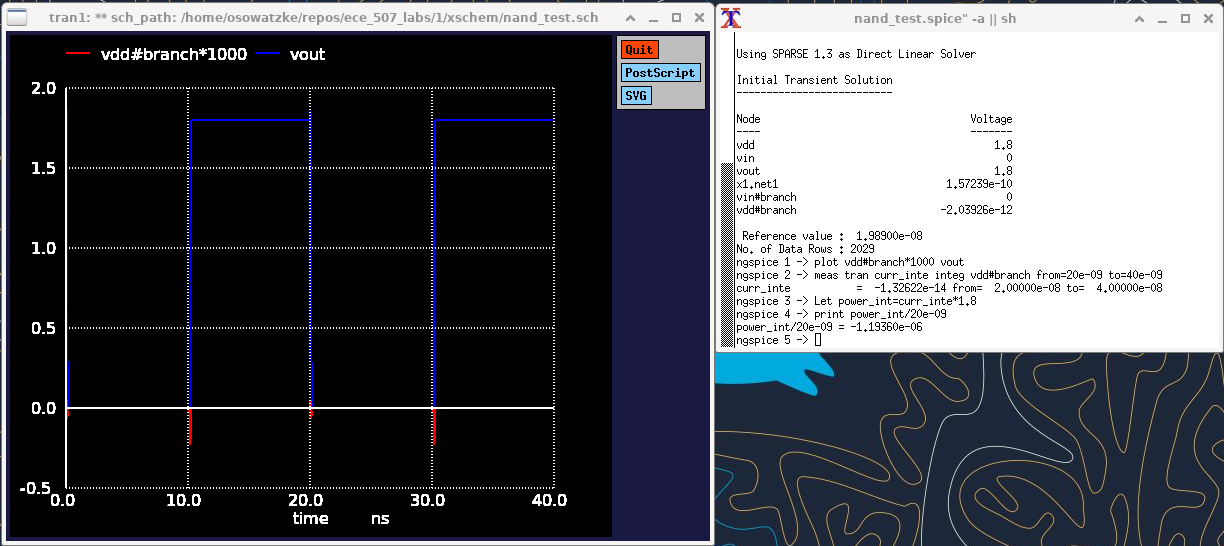
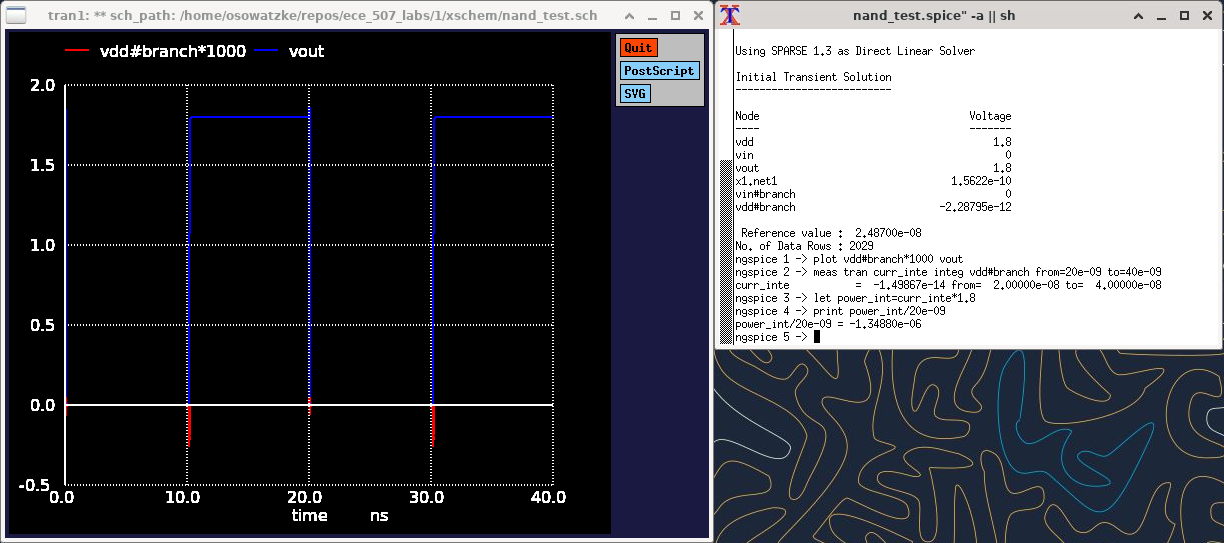
Summarizing power consumption results

diff --git a/1/lab_report.tex b/1/lab_report.tex
@@ -355,51 +355,43 @@
 	\end{center}
 	\end{table}
 	
-	\subsection{Power Analysis}
+	\subsubsection{Power Analysis}
 	
-	In this section, we analyze the power consumption of our NAND gate. Our test circuit for this analysis is included in Figure \ref{fig::nand_power_test_sweep_va}, and the results of our analysis are shown in Figure \ref{fig::nand_power_sweep_va}.
+	In this section, we analyze the power consumption of our NAND gate. Similar to what we did above, we analyze the power consumption for each input variation that results in an output logical level change. For our input, we used a pulsed source. This allows us to capture both rising and falling edges of the output. We use the test circuit shown in Figure \ref{fig::nand_power_test_sweep_va} to measure the power consumption for variations of \texttt{a} with \texttt{b=1}. For this analysis, we have also attached a parasitic capacitance to the gate output.
 	
 	\begin{figure}[H]
 		\centerline{\includegraphics[width=0.8\textwidth]{nand_power_test_sweep_va.png}}
-		\caption{Test Circuit to Measure the Power Consumption of the NAND Gate when \texttt{b=1} and Input \texttt{a} is Varied}
+		\caption{Test Circuit to Measure the Power Consumption of the NAND Gate when \texttt{a} is Varied and \texttt{b=1}}
 		\label{fig::nand_power_test_sweep_va}
 	\end{figure}
 	
+	\noindent Using the test circuit, we measure the power consumption as follows:
+	
 	\begin{figure}[H]
 		\centerline{\includegraphics[width=0.8\textwidth]{nand_power_sweep_va.png}}
-		\caption{Power Consumption of the NAND Gate wwhen \texttt{b=1} and Input \texttt{a} is Varied}
+		\caption{Power Consumption of the NAND Gate when \texttt{a} is Varied and \texttt{b=1}}
 		\label{fig::nand_power_sweep_va}
 	\end{figure}
 	
-	Examining the results, we find that the power consumption is $1.1936{\mu}W$. We can also measure the power consumption when we fix \texttt{a} at 1 and vary \texttt{b}. The test circuit for this analysis is shown in Figure \ref{fig::nand_power_test_sweep_vb} and the results are shown in Figure \ref{fig::nand_power_sweep_vb}.
+	\noindent Examining the results, we find that the power consumption is $1.34880{\mu}W$. Note that this power estimate includes the effects of the rising and falling edges of \texttt{a}. We can perform similar analysis for other variations of the input. Our results for this work are summarized in Table \ref{table::nand_gate_power_analysis}.
 	
-	\begin{figure}[H]
-		\centerline{\includegraphics[width=0.8\textwidth]{nand_power_test_sweep_vb.png}}
-		\caption{Test Circuit to Measure the Power Consumption of the NAND Gate when \texttt{a=1} and Input \texttt{b} is Varied}
-		\label{fig::nand_power_test_sweep_vb}
-	\end{figure}
-	
-	\begin{figure}[H]
-		\centerline{\includegraphics[width=0.8\textwidth]{nand_power_sweep_vb.png}}
-		\caption{Power Consumption of the NAND Gate when \texttt{a=1} and Input \texttt{b} is Varied}
-		\label{fig::nand_power_sweep_vb}
-	\end{figure}
-	
-	Examining the results, we find that the power consumption is $1.45331{\mu}W$. Next, we measure the power when the inputs are varied together. For this analysis, we use the test circuit shown in Figure \ref{fig::nand_power_test_sweep_va_vb}.
-	
-	\begin{figure}[H]
-		\centerline{\includegraphics[width=0.8\textwidth]{nand_power_test_sweep_vb.png}}
-		\caption{Test Circuit to Measure the Power Consumption of the NAND Gate when Both Inputs are Varied Together}
-		\label{fig::nand_power_test_sweep_va_vb}
-	\end{figure}
-	
-	The results of our analysis are included in Figure \ref{fig::nand_power_sweep_vb} and indicate a power consumption of $1.27361{\mu}W$. 
-	
-	\begin{figure}[H]
-		\centerline{\includegraphics[width=0.8\textwidth]{nand_power_sweep_va_vb.png}}
-		\caption{Power Consumption of the NAND Gate when Both Inputs are Varied Together}
-		\label{fig::nand_power_sweep_va_vb}
-	\end{figure}
+	\begin{table}[H]
+	\begin{center}
+	\caption{NAND Gate Power Consumption for Different Input Variations}
+	\label{table::nand_gate_power_analysis}
+	\begin{tabular}{| c | c | c |}
+		\hline
+		\texttt{a} & \texttt{b} & \texttt{Power}\\
+		\hline	
+		$0 \rightarrow 1 \rightarrow 0$ & $1$ & $1.34880{\mu}W$ \\
+		\hline	
+		$1$ & $0 \rightarrow 1 \rightarrow 0$ & $1.88943{\mu}W$ \\
+		\hline	
+		$0 \rightarrow 1 \rightarrow 0$ & $0 \rightarrow 1 \rightarrow 0$ & $1.44446{\mu}W$\\
+		\hline
+	\end{tabular}
+	\end{center}
+	\end{table}
 	
 	\subsection{NOR Gate}
 	
